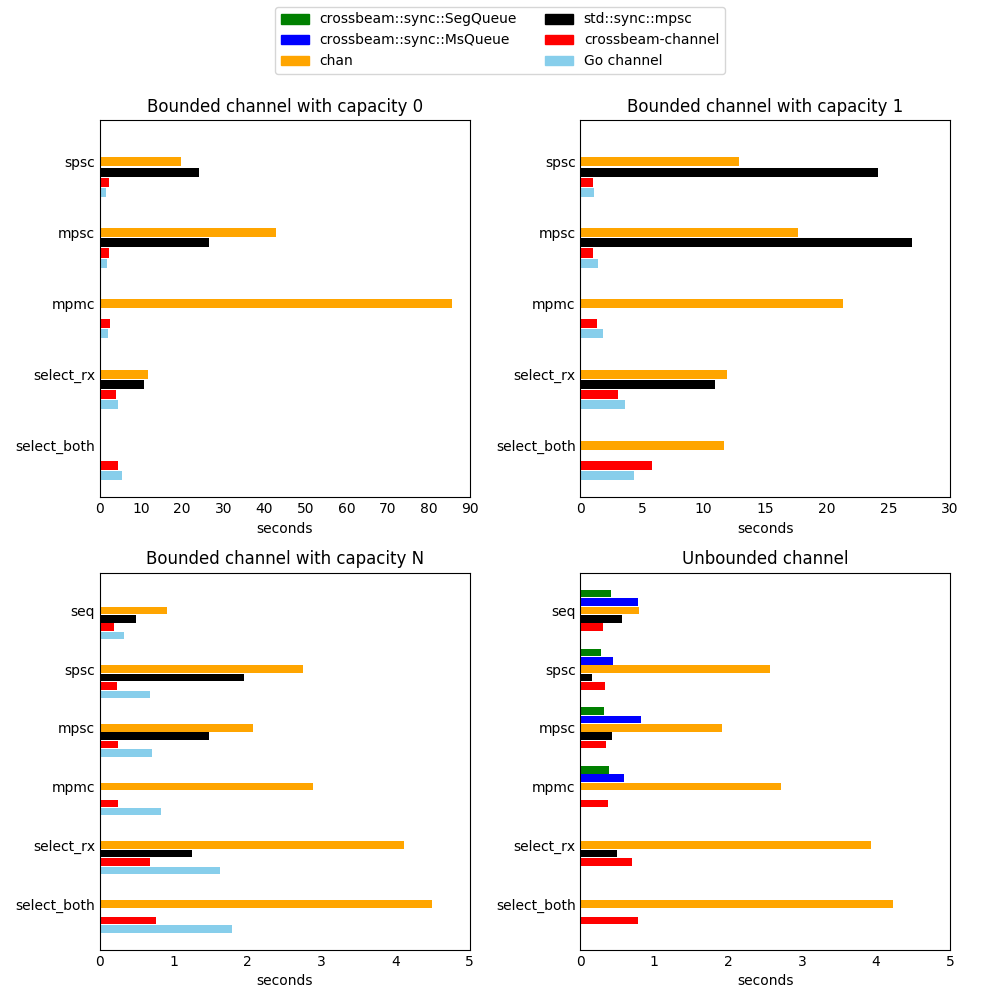
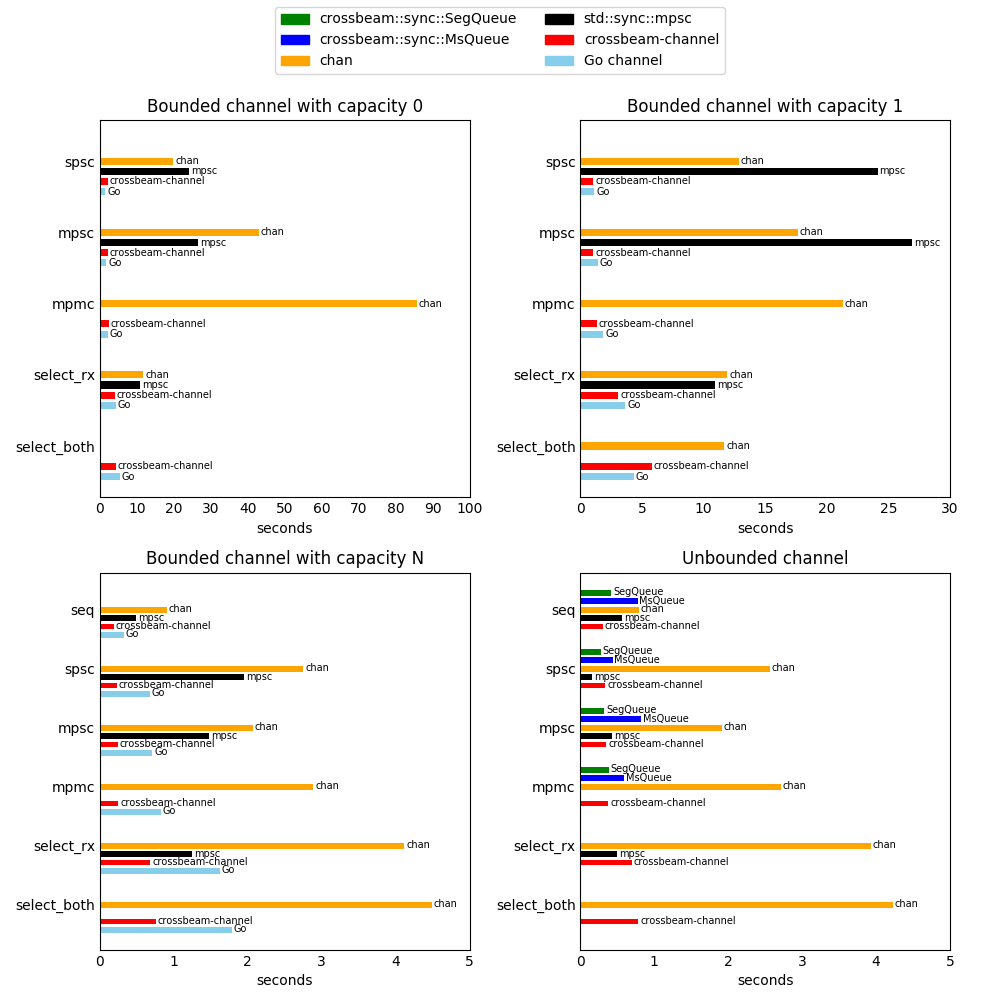
Add labels to bars

diff --git a/benchmarks/plot.py b/benchmarks/plot.py
@@ -3,7 +3,6 @@
 import sys
 import matplotlib.pyplot as plt
 import matplotlib.patches as mpatches
-import plotly.plotly as py
 
 results = []
 for f in sys.argv[1:]:
@@ -13,6 +12,7 @@ for f in sys.argv[1:]:
             results.append((test, lang, impl, float(secs)))
 
 fig = plt.figure(figsize=(10, 10))
+
 
 def plot(subplot, title, prefix, runs):
     runs.reverse()
@@ -48,20 +48,41 @@ def plot(subplot, title, prefix, runs):
                 if lang == 'Rust' and impl == 'channel':
                     channel[i] = secs
 
-    h = ax.barh([y-3 for y in ys], go, height=0.9, color='skyblue', align='center')
-    h = ax.barh([y-2 for y in ys], channel, height=0.9, color='red', align='center')
-    h = ax.barh([y-1 for y in ys], mpsc, height=0.9, color='black', align='center')
-    h = ax.barh([y+0 for y in ys], chan, height=0.9, color='orange', align='center')
-    h = ax.barh([y+1 for y in ys], msqueue, height=0.9, color='blue', align='center')
-    h = ax.barh([y+2 for y in ys], segqueue, height=0.9, color='green', align='center')
+    opts = dict(height=0.7, align='center')
+    ax.barh([y-3 for y in ys], go, color='skyblue', **opts)
+    ax.barh([y-2 for y in ys], channel, color='red', **opts)
+    ax.barh([y-1 for y in ys], mpsc, color='black', **opts)
+    ax.barh([y+0 for y in ys], chan, color='orange', **opts)
+    ax.barh([y+1 for y in ys], msqueue, color='blue', **opts)
+    ax.barh([y+2 for y in ys], segqueue, color='green', **opts)
 
-    m = int(max(go + mpsc + msqueue + segqueue + chan + channel) * 1.1 + 1)
+    m = int(max(go + mpsc + msqueue + segqueue + chan + channel) * 1.2)
     if m < 10:
         ax.set_xticks(range(m + 1))
     elif m < 50:
         ax.set_xticks([x*5 for x in range(m / 5 + 1)])
     else:
         ax.set_xticks([x*10 for x in range(m / 10 + 1)])
+
+    for (x, y) in zip(go, ys):
+        if x > 0:
+            ax.text(x+m/200., y-3-0.3, 'Go', fontsize=7)
+    for (x, y) in zip(channel, ys):
+        if x > 0:
+            ax.text(x+m/200., y-2-0.3, 'crossbeam-channel', fontsize=7)
+    for (x, y) in zip(mpsc, ys):
+        if x > 0:
+            ax.text(x+m/200., y-1-0.3, 'mpsc', fontsize=7)
+    for (x, y) in zip(chan, ys):
+        if x > 0:
+            ax.text(x+m/200., y+0-0.3, 'chan', fontsize=7)
+    for (x, y) in zip(msqueue, ys):
+        if x > 0:
+            ax.text(x+m/200., y+1-0.3, 'MsQueue', fontsize=7)
+    for (x, y) in zip(segqueue, ys):
+        if x > 0:
+            ax.text(x+m/200., y+2-0.3, 'SegQueue', fontsize=7)
+
 
 plot(
    221,
@@ -102,11 +123,18 @@ legend = [
 legend.reverse()
 fig.legend(
     [mpatches.Patch(label=label, color=color) for (label, color) in legend],
-    [label for (label, _) in legend],
+    [label for (label, color) in legend],
     'upper center',
     ncol=2,
 )
 
-plt.subplots_adjust(top=0.88, bottom=0.05, wspace=0.3, hspace=0.2, left=0.1, right=0.95)
+plt.subplots_adjust(
+    top=0.88,
+    bottom=0.05,
+    left=0.1,
+    right=0.95,
+    wspace=0.3,
+    hspace=0.2,
+)
 plt.savefig('plot.png')
 # plt.show()
